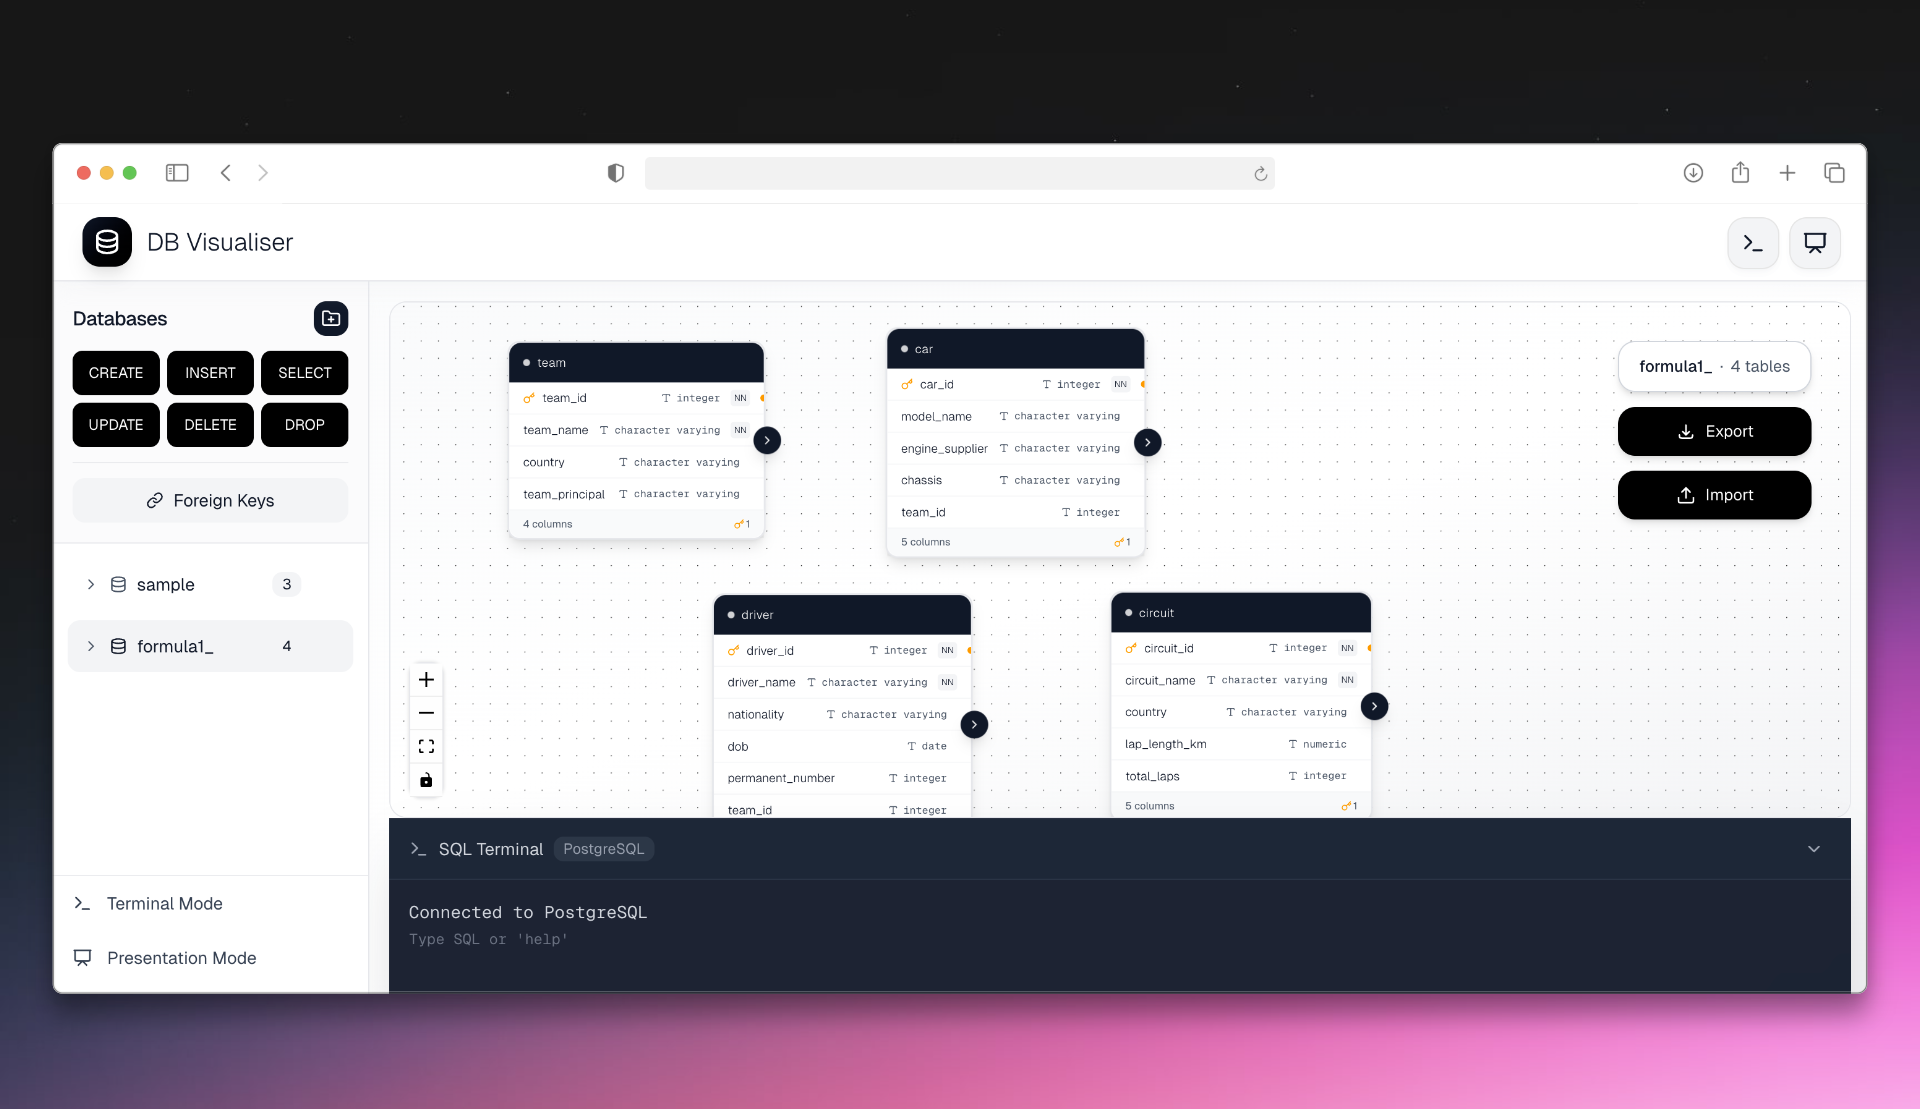
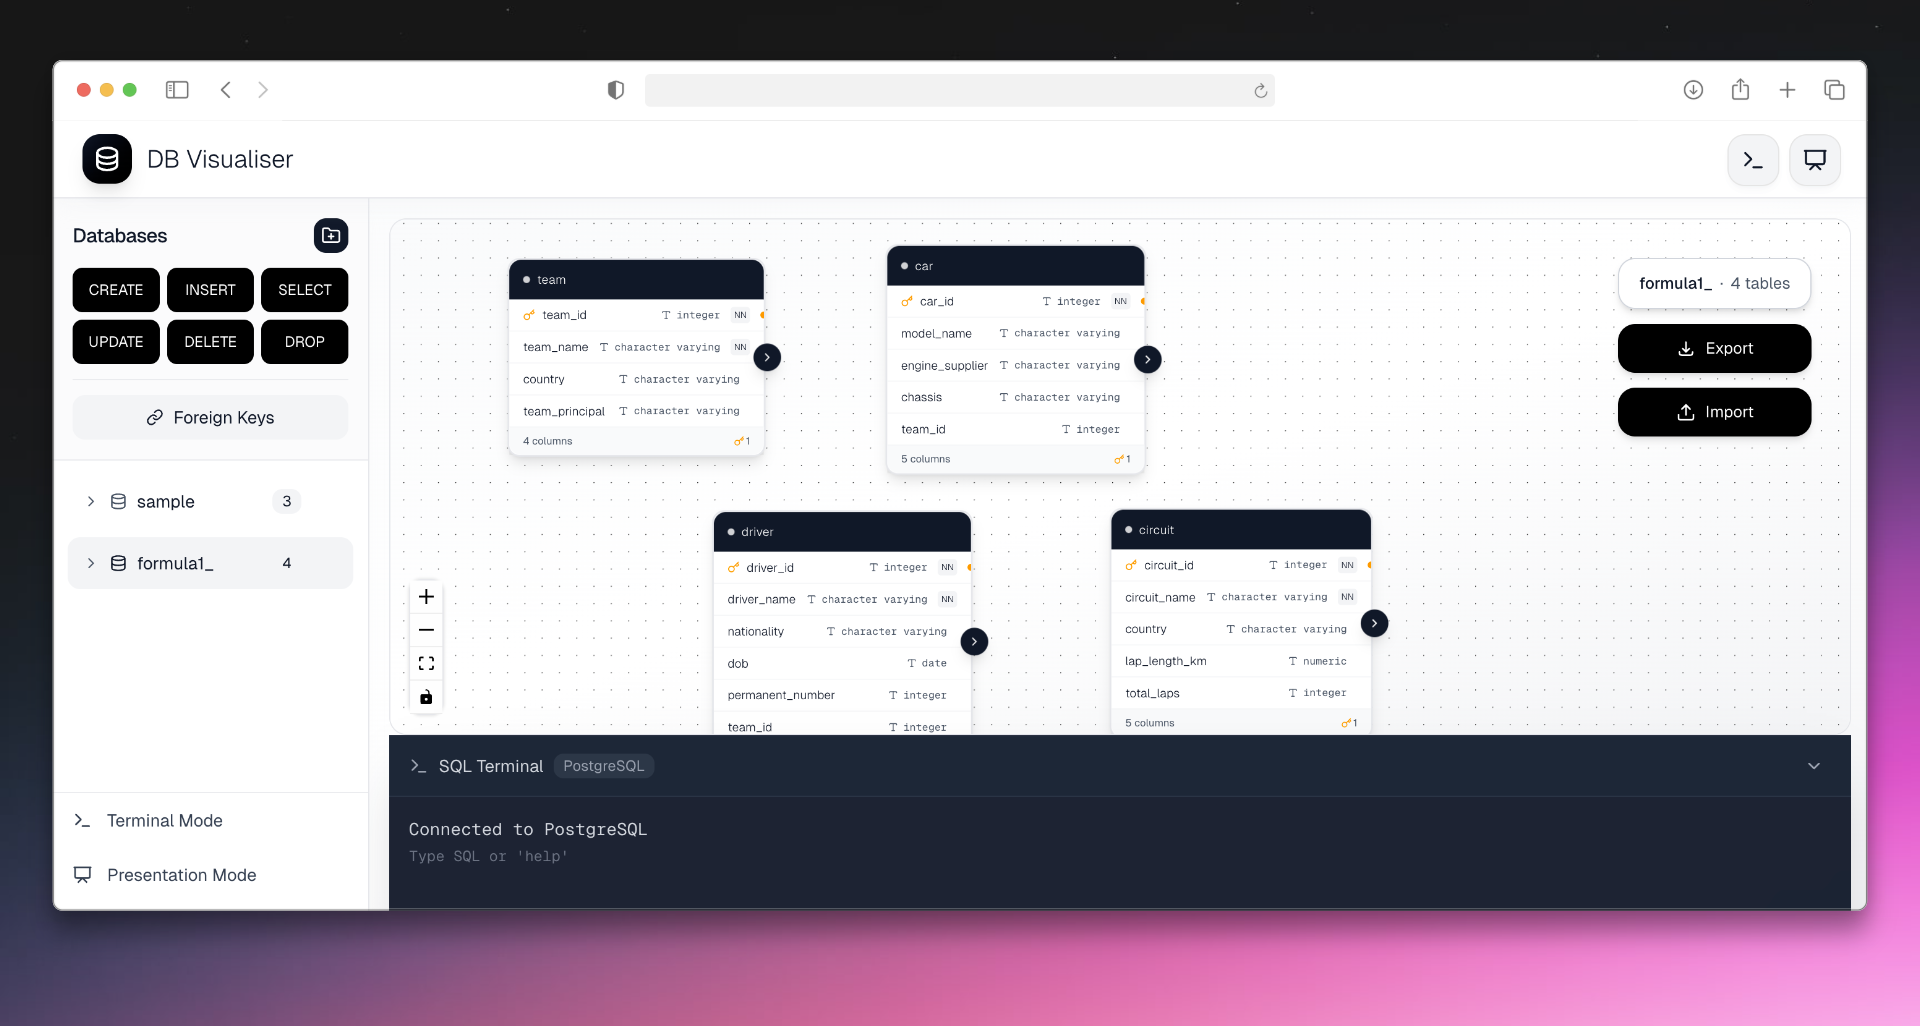
fix: clean up build warnings
Move viewport config to Next.js viewport export, migrate middleware to proxy, and avoid logging missing DATABASE_URL at import time.

diff --git a/db-viz/src/app/layout.tsx b/db-viz/src/app/layout.tsx
@@ -1,4 +1,4 @@
-import type { Metadata } from "next";
+import type { Metadata, Viewport } from "next";
 import { Geist, Geist_Mono, Instrument_Serif } from "next/font/google";
 import "./globals.css";
 import { WebVitalsMonitor } from "@/components/WebVitalsMonitor";
@@ -24,12 +24,13 @@ export const metadata: Metadata = {
   title: "DB Visualiser - PostgreSQL Database Design Tool",
   description: "A visual PostgreSQL database design tool for creating, managing, and visualizing database schemas with an intuitive drag-and-drop interface.",
   keywords: ["PostgreSQL", "database", "visualizer", "schema", "design", "tables", "relationships"],
-  viewport: {
-    width: "device-width",
-    initialScale: 1,
-    maximumScale: 1,
-    userScalable: true,
-  },
+};
+
+export const viewport: Viewport = {
+  width: "device-width",
+  initialScale: 1,
+  maximumScale: 5,
+  userScalable: true,
 };
 
 export default function RootLayout({
@@ -39,10 +40,6 @@ export default function RootLayout({
 }>) {
   return (
     <html lang="en" suppressHydrationWarning>
-      <head>
-        {/* Light mode by default - dark mode only applies in dashboard */}
-        <meta name="viewport" content="width=device-width, initial-scale=1, maximum-scale=5, user-scalable=yes" />
-      </head>
       <body
         className={`${geistSans.variable} ${geistMono.variable} ${instrumentSerif.variable} antialiased`}
       >

diff --git a/db-viz/src/proxy.ts b/db-viz/src/proxy.ts
@@ -1,6 +1,6 @@
 import { NextRequest, NextResponse } from 'next/server';
 
-export function middleware(request: NextRequest) {
+export function proxy(request: NextRequest) {
   const response = NextResponse.next();
 
   // Cache static assets (JS, CSS) indefinitely
@@ -16,9 +16,7 @@ export function middleware(request: NextRequest) {
   }
 
   // Cache images for 1 year
-  if (
-    request.nextUrl.pathname.match(/\.(png|jpg|jpeg|gif|webp|svg)$/)
-  ) {
+  if (request.nextUrl.pathname.match(/\.(png|jpg|jpeg|gif|webp|svg)$/)) {
     response.headers.set(
       'Cache-Control',
       'public, max-age=31536000, immutable'
@@ -26,8 +24,12 @@ export function middleware(request: NextRequest) {
   }
 
   // Cache HTML pages - use ISR/stale-while-revalidate
-  if (request.nextUrl.pathname === '/' || 
-      request.nextUrl.pathname.match(/^\/(pricing|privacy-policy|terms-of-service|documentation)$/)) {
+  if (
+    request.nextUrl.pathname === '/' ||
+    request.nextUrl.pathname.match(
+      /^\/(pricing|privacy-policy|terms-of-service|documentation)$/
+    )
+  ) {
     response.headers.set(
       'Cache-Control',
       'public, max-age=3600, s-maxage=86400, stale-while-revalidate=86400'
@@ -66,3 +68,4 @@ export const config = {
     '/((?!_next/image|_next/static|favicon.ico|public).*)',
   ],
 };
+

diff --git a/db-viz/src/lib/mysql.ts b/db-viz/src/lib/mysql.ts
@@ -4,14 +4,13 @@ import { Pool, PoolClient, QueryResult } from 'pg';
 // Supports Neon, Railway, and other PostgreSQL hosting
 const DATABASE_URL = process.env.DATABASE_URL;
 
-if (!DATABASE_URL) {
-  console.error('DATABASE_URL environment variable is not set');
-}
-
 // Connection pool for better performance
 let pool: Pool | null = null;
 
 function getPool() {
+  if (!DATABASE_URL) {
+    throw new Error('DATABASE_URL environment variable is not set');
+  }
   if (!pool) {
     pool = new Pool({
       connectionString: DATABASE_URL,

diff --git a/db-viz/src/lib/postgresql.ts b/db-viz/src/lib/postgresql.ts
@@ -4,14 +4,13 @@ import { Pool, PoolClient, QueryResult } from 'pg';
 // Supports Neon, Railway, and other PostgreSQL hosting
 const DATABASE_URL = process.env.DATABASE_URL;
 
-if (!DATABASE_URL) {
-  console.error('DATABASE_URL environment variable is not set');
-}
-
 // Connection pool for better performance
 let pool: Pool | null = null;
 
 function getPool() {
+  if (!DATABASE_URL) {
+    throw new Error('DATABASE_URL environment variable is not set');
+  }
   if (!pool) {
     pool = new Pool({
       connectionString: DATABASE_URL,
